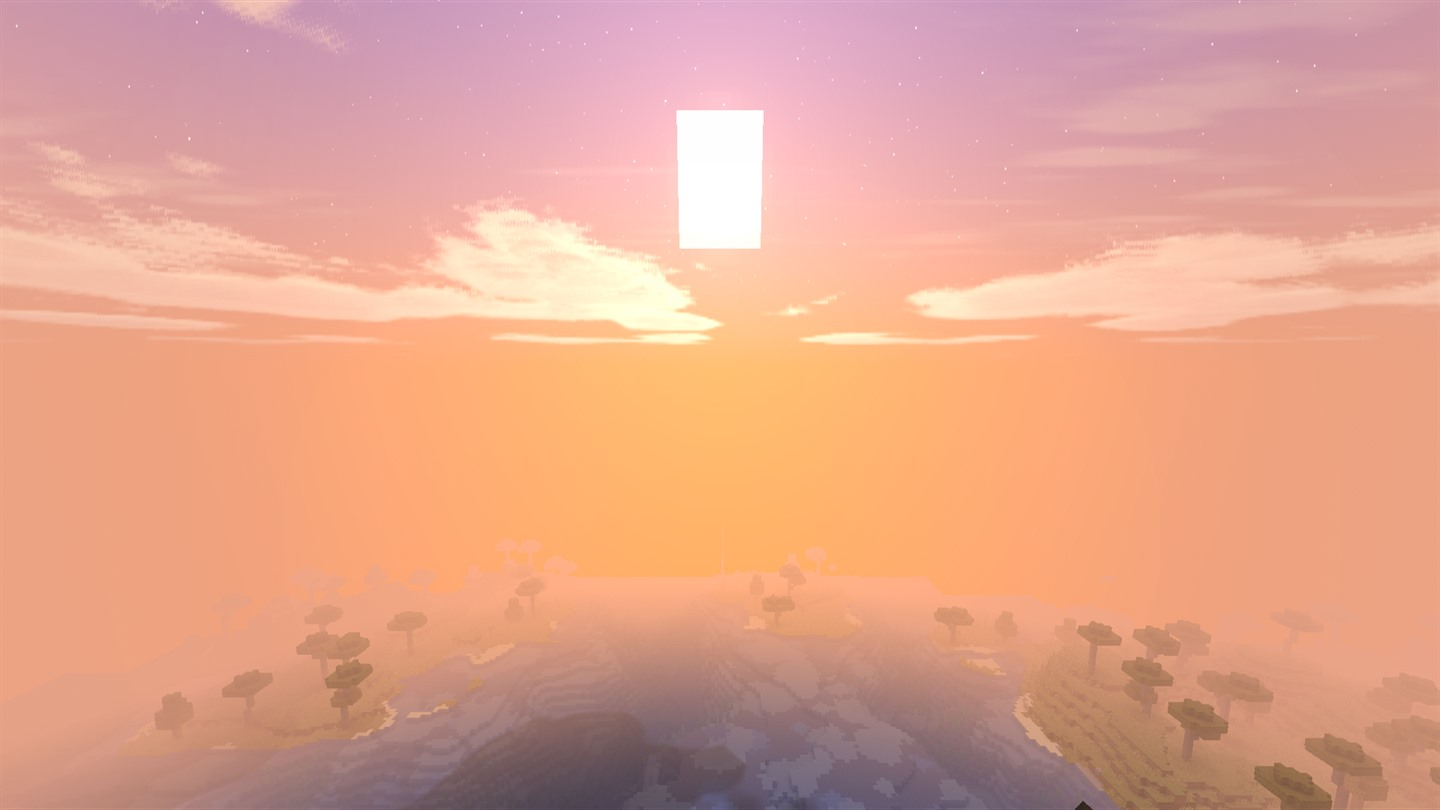
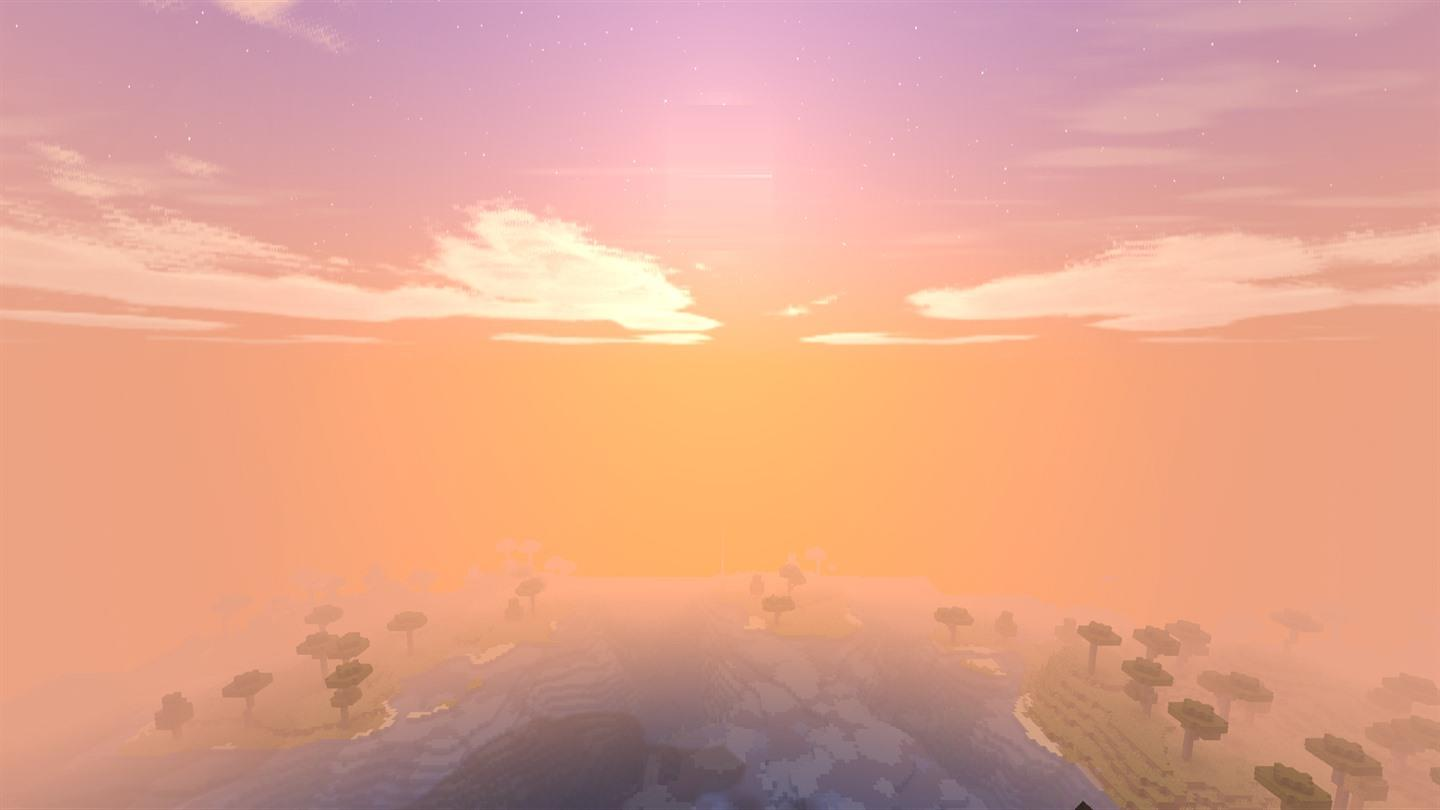
fix(look): retouch sunset scenery backdrop to remove world monolith artifact and verify HIG layout

Changed region(s): [[0.4688, 0.1235, 0.5312, 0.3086]]

diff --git a/ui/src/App.svelte b/ui/src/App.svelte
@@ -25,6 +25,20 @@
   let activeTab = $state('play');
   let isMaximized = $state(false);
 
+  $effect(() => {
+    if (typeof window !== 'undefined') {
+      const params = new URLSearchParams(window.location.search);
+      const tabParam = params.get('tab');
+      if (tabParam && sidebarItems.some((i) => i.id === tabParam)) {
+        activeTab = tabParam;
+      }
+      const themeParam = params.get('theme');
+      if (themeParam === 'light' || themeParam === 'dark') {
+        theme.setAppearance(themeParam);
+      }
+    }
+  });
+
   // Launch state
   let selectedVersion = $state('1.21.1');
   let playerName = $state('Player');
